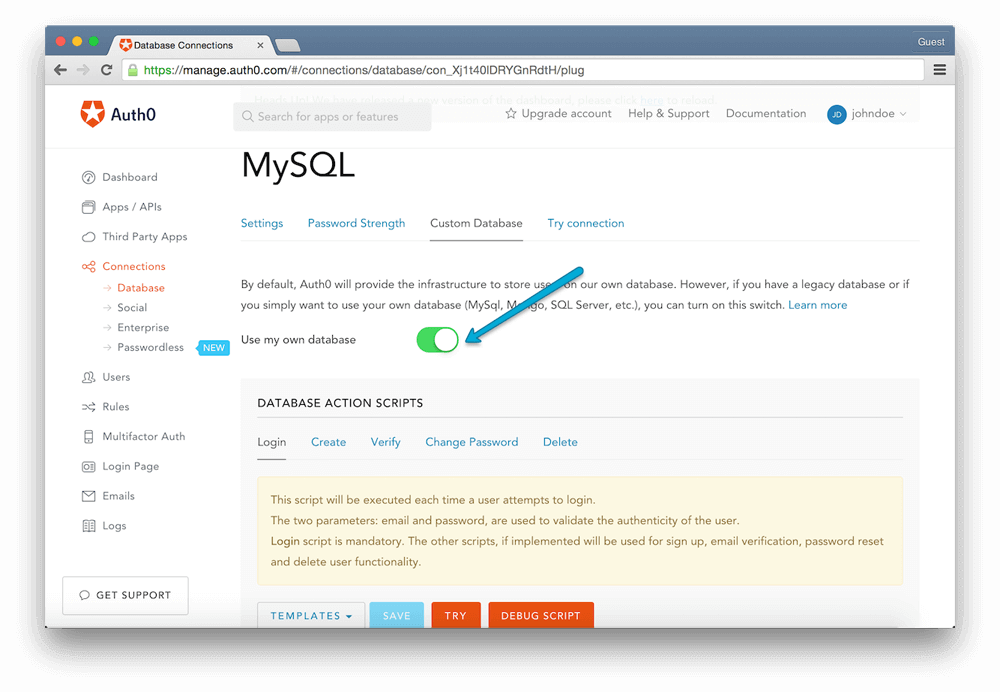
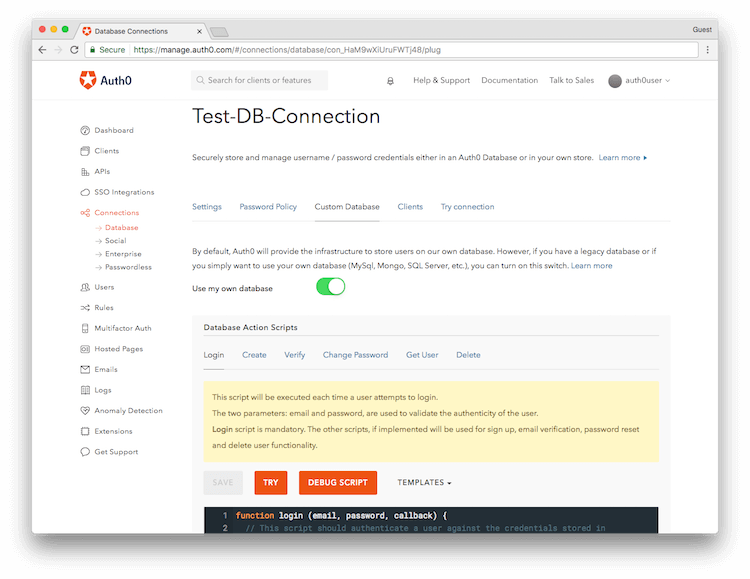
Add note on scripts and update screenshots

diff --git a/articles/connections/database/mysql.md b/articles/connections/database/mysql.md
@@ -28,6 +28,10 @@ Click **Custom Database** and turn on the **Use my own database** switch.
 
 You have to provide a login script to authenticate the user that will execute each time a user attempts to log in. Optionally, you can create scripts for sign-up, email verification, password reset and delete user functionality.
 
+:::panel-info
+When creating users, the `get_user` script is called before the `create` script. Be sure that you have implemented both.
+:::
+
 These custom scripts are *Node.js* code that run in the tenant's sandbox. Auth0 provides templates for most common databases, such as: **ASP.NET Membership Provider**, **MongoDB**, **MySQL**, **PostgreSQL**, **SQLServer**, **Windows Azure SQL Database**, and for a web service accessed by **Basic Auth**. Essentially, you can connect to any kind of database or web service with a custom script.
 
 This tutorial uses **MySQL** as an example. In the **Templates** drop-down, select **MySQL**:
@@ -74,7 +78,7 @@ This script connects to a **MySQL** database and executes a query to retrieve th
 
 ### Database Field Requirements
 
-Of course, your custom database will need to have fields in it that will provide the information to populate user profiles. In the above example, the script is checking for an `id`, `nickname`, `email`, and `password`. 
+Of course, your custom database will need to have fields in it that will provide the information to populate user profiles. In the above example, the script is checking for an `id`, `nickname`, `email`, and `password`.
 
 For more information on Auth0 user profile schema and the fields that are expected, as well as additional ones that are available, take a look at the [Auth0 Normalized User Profile](/user-profile/normalized) documentation.
 
@@ -95,6 +99,7 @@ function login (username, password, callback) {
     password : configuration.MYSQL_PASSWORD,
     database : 'mydb'
   });
+}
 ```
 
 ## 5. Error handling
